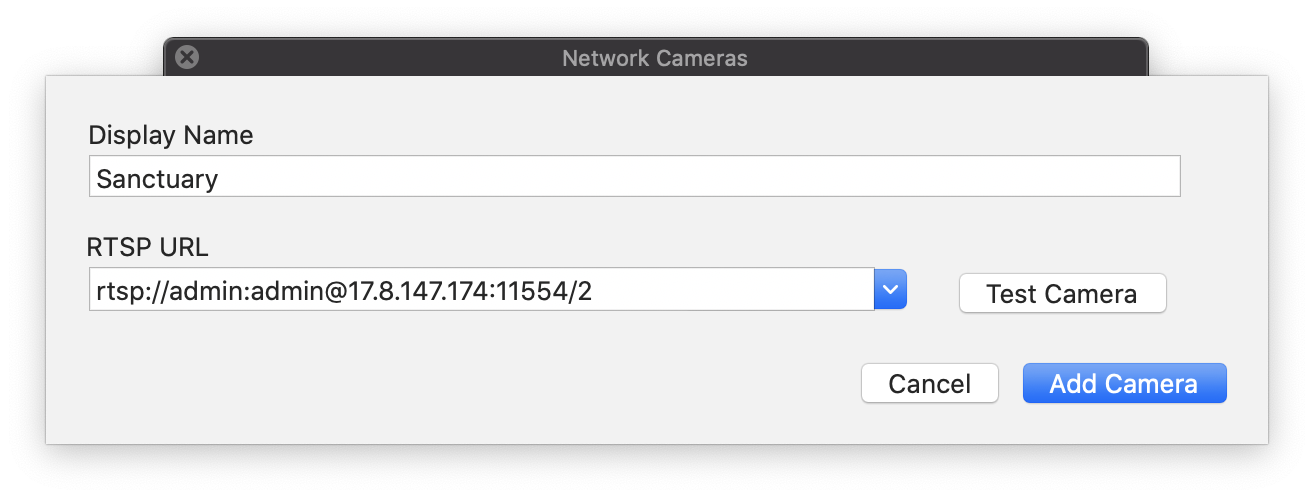
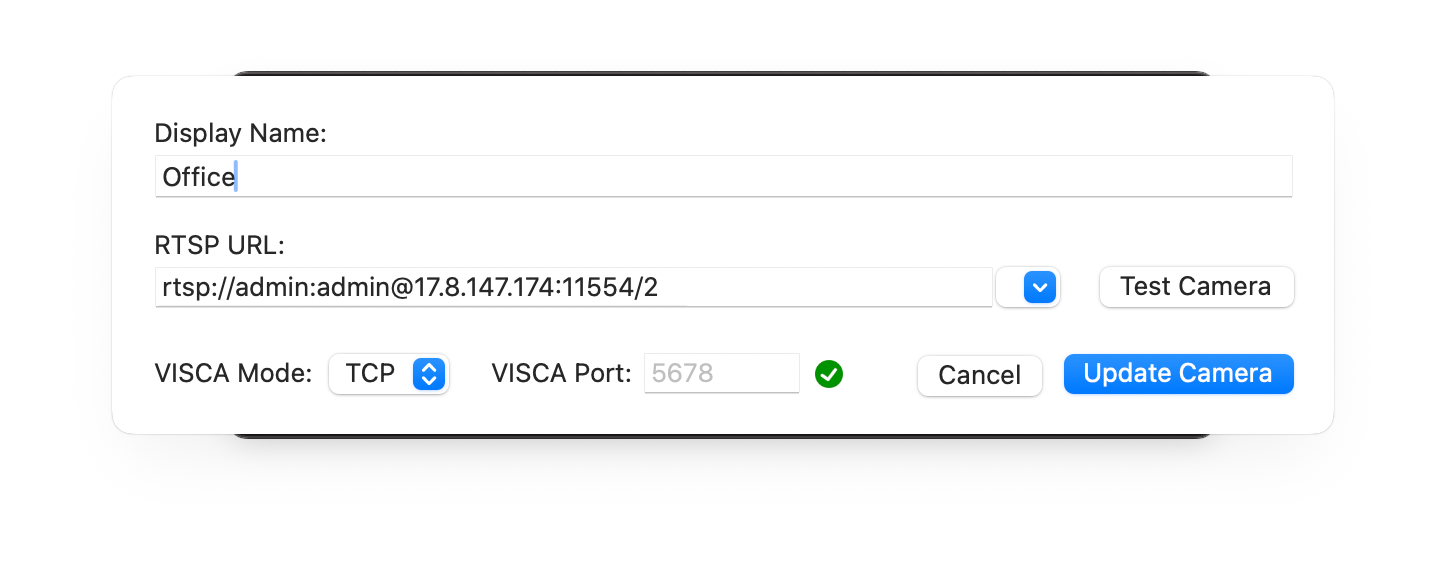
Some 4.4 features

diff --git a/docs/_ecamm-live-manual/014-adjusting-sound-levels.md b/docs/_ecamm-live-manual/014-adjusting-sound-levels.md
@@ -11,7 +11,7 @@ The Sound Levels Window shows what audio source is in use. Clicking on the name 
 
 A meter in the Sound Levels Window will show the currently selected source's volume level. You can adjust this with the slider. When sharing your screen, you'll also see a sound level adjustment for System Audio.
 
-Each audio channel (microphone, movie audio, Interview mode, Sound Effects and System Audio) can be muted using the Sound Level window's <samp>MUTE</samp> buttons. These mute setting will be saved in the Scene. For example, you may have an Interview guest online, but only unmute the guest's audio in particular Scenes.
+Each audio channel (microphone, movie audio, Interview mode, Sound Effects, Zoom audio, and System Audio) can be muted using the Sound Level window's <samp>MUTE</samp> buttons. These mute setting will be saved in the Scene. For example, you may have an Interview guest online, but only unmute the guest's audio in particular Scenes.
 
 ### Adding a Second Audio Input
 
@@ -21,6 +21,10 @@ To remove the secondary audio input, click the {% inlineicon remove 15 inverted 
 
 When [an iOS device is connected](../003-camera-mode/#broadcasting-your-ios-devices-screen), Ecamm Live will automatically add it as a second audio device. You will also see a checkbox and popup menu to configure audio play-through for the iOS device. This will allow you to hear sound from the iOS device on your Mac's speakers or a headset.
 
+### Capturing System Audio
+
+If <samp>Broadcast System Audio</samp> is turned on in the [Audio preferences](../018-other-options/#audio-preferences), you will see system sound levels shown in this window, including a popup menu to select which Mac application's audio should be captured. (Note that this menu is only available when using macOS 14.4 or newer.)
+
 ### Mapping Audio Channels for Stereo
 
 Ecamm Live will automatically broadcast System Audio and movie playback audio in stereo. Audio from a connected microphone or mixer works a bit differently.
@@ -29,9 +33,16 @@ By default, Ecamm Live will mix all of an input device's channels together. Howe
 
 Note that when [Echo Cancellation](#echo-cancellation) is enabled, Ecamm Live will only use audio on channel 1 of multi-channel audio input devices, so stereo audio will not be available.
 
+### Mapping Audio Channels from Multi-Channel Audio Devices
+
+If Ecamm Live detects a multi-channel audio device, (an audio device with more than two channels), a channel mapping icon will show up. Click this icon to view the channel mapping popover. Each channel can be mapped to <samp>Off</samp>, <samp>Mono</samp>, <samp>Left</samp>, or <samp>Right</samp>. 
+
+Note that this feature will not be available if Echo Cancellation is activated.
+
 #### Stereo for Interview Guests
 
 Ecamm Live provides the option for [Interview](../008-interview-mode) guests to connect in stereo, however the guest must use Chrome on a desktop computer, and [audio processing must be disabled](../008-interview-mode#turn-off-audio-processing-for-guests).
+
 
 ### Echo Cancellation
 
@@ -40,6 +51,20 @@ If you are using your Mac's speakers during your broadcast, that may cause an ec
 If you are using headphones, echo cancellation is disabled automatically. Note that Ecamm Live can't distinguish between headphones and external computer speakers. If you are using external computers speakers, and you wish to use Echo Cancellation, you will need to turn on the <samp>Enable Echo Cancellation for External Speakers</samp> checkbox in the Audio section of the Preferences.
 
 When Echo Cancellation is enabled, Ecamm Live will only use audio on channel 1 of multi-channel audio input devices. If your audio interface has more than one channel, be sure to turn off Echo Cancellation.
+
+### Audio Filters
+
+Ecamm Live'a Audio Filters window allows you to applue any installed AU Component audio plugins to the primary mic, secondary mic, or [Interview mode](../008-interview-mode/) guest audio. To open the Audio Filters window, click the {% inlineicon hollowpuzzlepiece 35 inverted %}puzzle piece{% endinlineicon %} icon in the bottom-right corner of the Sound Levels window, or pick <samp>Audio Filters</samp> from the <samp>Window</samp> menu.
+
+![Audio Filters Window](/assets/img/audiofilters.png "Audio Filters Window"){: width="340px"}
+
+Click the + button to add a new Audio Filter group. In the details popover, select the desired audio channels, and click <samp>Add Plugin</samp> to add one or more audio plugins. 
+
+![Audio Filters Window Add Plugin](/assets/img/addplugin.png "Audio Filters Window Add Plugin"){: width="540px"}
+
+#### Hearing Your Audio Filters
+
+To hear the effects of your Audio Filters, connect headphones, and use Ecamm Live's Audio Monitor feature. (Pick the headphones in the <samp>Audio Monitor</samp> section of the <samp>Outputs</samp> menu.)
 
 ### Audio Warnings
 

diff --git a/docs/_ecamm-live-manual/008-adding-zoom.md b/docs/_ecamm-live-manual/008-adding-zoom.md
@@ -117,13 +117,23 @@ Participants can automatically bypass Zoom's waiting room feature. In the ••
 
 By default, participants are not automatically added as Ecamm Live camera sources. This can be changed if you would like all guests to become camera sources immediately upon joining. In the ••• menu in the top right-hand corner of the Zoom window, or in Ecamm Live's Preferences window, choose from the three <samp>Auto-Add Participants to Cameras</samp> options. To only auto-add participants who have previously joined your meetings, pick <samp>Known Participants</samp>.
 
+#### Show Zoom Guest Names in Camera Mode
+
+Ecamm Live will automatically add Zoom guest name text overlays to Zoom guests when in [Camera Mode](../003-camera-mode) Scenes.
+
 #### Include a Zoom Active Speaker Camera
 
 Activating this feature will add an active speaker camera source to the <samp>A/B</samp> section of the [camera switcher](../009-camera-switcher).
 
+The Zoom Active Speaker camera source will begin working once a [Zoom Capture Mode](#zoom-capture-modes) has been activated.
+
 #### Show Me As An Active Speaker
 
 Include your own camera when you're speaking when using the Zoom Active Speaker feature. 
+
+#### Exclude Visible Inputs From Active Speakers Camera
+
+This will avoid duplicated video by automatically excluding any guests or camera that are already in the current Scene. For example, if a Zoom guest's camera source is already visible in your Scene, and the Scene also contain a Zoom Active Speaker camera source, Zoom Active Speaker will not show that Zoom guest as the active speaker when they speak.
 
 #### Zoom Audio Processing
 
@@ -131,9 +141,14 @@ By default, Zoom's audio processing such as echo cancellation and background noi
 
 Keep in mind that disabling Zoom's audio processing could result in echo, so ensure that Ecamm Live's [Echo Cancellation](../014-adjusting-sound-levels/#echo-cancellation) feature or headphones are used when this setting is set to <samp>Disabled</samp>.
 
+#### Automatically Spotlight Myself
+
+Zoom's [Spotlight feature](https://support.zoom.com/hc/en/article?id=zm_kb&sysparm_article=KB0066300) will automatically activate once [the requirements for spotlighting](https://support.zoom.com/hc/en/article?id=zm_kb&sysparm_article=KB0066300) have been met.
+
 #### Add Zoom Chat and Q&A Questions to the Ecamm Comments & Reactions Window
 
-Indicate whether you would like Zoom chat messages and [Q&A questions](https://support.zoom.com/hc/en/article?id=zm_kb&sysparm_article=KB0065237) to [show up in the Comments & Reactions Window.](#adding-zoom-chat-messages-to-your-scene) 
+Indicate whether you would like Zoom chat messages and [Q&A questions and answers](https://support.zoom.com/hc/en/article?id=zm_kb&sysparm_article=KB0065237) to [show up in the Comments & Reactions Window.](#adding-zoom-chat-messages-to-your-scene) 
+
 
 #### Manual Audio Mode
 
@@ -204,6 +219,15 @@ Zoom chat messages and [Q&A questions](https://support.zoom.com/hc/en/article?id
 ![Figure\: The Comments & Reactions Window](/assets/img/zoomcomments.png "The Comments & Reactions Window"){:width="375"}
 
 The Comments & Reactions window can also be used to send Zoom chat messages.
+
+### Zoom Q&A Features
+
+When Zoom Q&A questions arrive, a new <samp>Open Questions</samp> tab will appear in the Comments & Reactions window. Questions will automatically be removed from this section when they've been deleted, dismissed, or marked as answered by you or a co-host.
+
+Options for deleting, dismissing, or answering questions can be accessed by right-clicking or <kbd>option</kbd>-clicking on the question in the Comments & Reactions window. 
+
+![Figure\: The Comments & Reactions Window](/assets/img/questionactions.png "The Comments & Reactions Window"){:width="375"}
+
 
 ## Maximizing Participant Video Resolution
 

diff --git a/docs/_ecamm-live-manual/018-other-options.md b/docs/_ecamm-live-manual/018-other-options.md
@@ -126,7 +126,7 @@ Creates a local recording of all broadcasts. Find more about recording in the [R
 
 #### Record Isolated Video Tracks (Pro Only)
 
-In addition to normal recording, Ecamm Live can save a recording of up to two camera sources and all [Interview](../008-interview-mode/) guest video and audio. This is sometimes referred to as ISO video recording. Turn on isolated video recording using the checkboxes for <samp>Camera A</samp>, <samp>Camera B</samp> and <samp>Interview Guests</samp>. You can also select what audio will be added to each recording.
+In addition to normal recording, Ecamm Live can save a recording of up to two camera sources and all [Interview](../008-interview-mode/) guest video and audio. This is sometimes referred to as ISO video recording. Turn on isolated video recording using the checkboxes for <samp>Camera A</samp>, <samp>Camera B</samp>, <samp>Camera C</samp>, <samp>Interview Guests</samp>, <samp>Zoom Guests</samp>, and the Zoom Active Speaker camera. You can also select what audio will be added to each recording.
 
 #### Apply Camera Effects To Recorded Video Sources
 
@@ -172,7 +172,9 @@ The default source mode (Blank, Camera, or Screen Share) for newly created Scene
 
 #### Default Transition
 
-Choose a visual effect when changing Source Modes or Scenes. Select <samp>No Transition</samp>, <samp>Cross Dissolve</samp>,  <samp>Slow Cross Dissolve</samp>,  <samp>Slower Cross Dissolve</samp>, <samp>White Flash</samp>, <samp>Swipe</samp>, <samp>Cross Zoom</samp>, <samp>Light Rays</samp>, <samp>Ripple</samp> and <samp>Copy Machine</samp> transition effects. A Pro-level plan is required for <samp>Cross Zoom</samp>, <samp>Light Rays</samp>, <samp>Ripple</samp> and <samp>Copy Machine</samp> effects.
+Choose a visual effect when changing Source Modes or Scenes. Select <samp>No Transition</samp>, <samp>Live Motion</samp>,  <samp>Cross Dissolve</samp>,  <samp>Slow Cross Dissolve</samp>,  <samp>Slower Cross Dissolve</samp>, <samp>White Flash</samp>, <samp>Swipe</samp>, <samp>Cross Zoom</samp>, <samp>Light Rays</samp>, <samp>Ripple</samp> and <samp>Copy Machine</samp> transition effects. A Pro-level plan is required for <samp>Cross Zoom</samp>, <samp>Light Rays</samp>, <samp>Ripple</samp> and <samp>Copy Machine</samp> effects.
+
+Live Motion will smoothly move overlays that are in both scenes. It supports camera, screen share, widget, and image overlays. Components of the scene that aren't moved by Live Motion will cross dissolve.
 
 This transition effect can also be set on a per-Scene basis by selecting a transition in the <samp>Scene Optons</samp> section of the <samp>Options</samp> menu.
 

diff --git a/docs/_ecamm-live-manual/003-camera-mode.md b/docs/_ecamm-live-manual/003-camera-mode.md
@@ -41,6 +41,8 @@ rtsp://user:password@address:port/path
 
 The <samp>Test Camera</samp> button can be used to test the connection to the camera. 
 
+Many RTSP camera support VISCA for pan-tilt-zoom capabilities. If your camera supports VISCA, configure the VISCA setting here to use Ecamm Live's PTZ features.
+
 Note that network camera audio is not supported.
 
 #### Broadcasting Your iOS Device's Screen
@@ -54,6 +56,25 @@ Macs running macOS Ventura or newer will show your iPhone's [Continuity Camera](
 #### 360° Cameras
 
 Ecamm Live supports streaming from 360° cameras to services like Facebook Live which support them. We have used the Ricoh Theta S camera successfully. If you need help setting that up, read our [Streaming with a 360° Camera](https://support.ecamm.com/en/articles/3217765-streaming-with-a-360-camera/) document. Other cameras that can produce a equirectangular image may also work.
+
+## Pan-Tilt-Zoom (PTZ) Cameras
+
+Ecamm Live can control PTZ camera. Supported cameras include:
+
+* VISCA (Configure in the [Network Cameras](#rtsp-cameras-also-called-network-cameras-or-ip-cameras) window.)
+* UVC (USB webcams such as Insta6360 Link and Logitech PTZ Pro 2.)
+* OBSBot USB
+* NDI
+
+Ecamm Live will automatically detect PTZ capabilities and provide a control window for each camera. To manually open the control window, pick <samp>Show PTZ Controls</samp> from the camera's ••• menu in the [Camera Switcher window](../009-camera-switcher/) or click the {% inlineicon ptzbutton 30 %}PTZ controls{% endinlineicon %} icon.
+
+![PTZ Controls](/assets/img/ptz.png "PTZ Controls"){: width="554px"}
+
+The PTZ control window may look different depending on each camera's supported features. For example, presets or speed options may be missing if a particular camera doesn't support these features.
+
+#### Assigning PTZ Presets To Placeholder Cameras
+
+You can automatically recall a specific PTZ preset position in a Scene by assigning the preset position to a [Placeholder Camera](../009-camera-switcher/#placeholder-cameras).
 
 ## The Video Source Switcher
 

diff --git a/docs/_ecamm-live-manual/015-sound-effects.md b/docs/_ecamm-live-manual/015-sound-effects.md
@@ -51,10 +51,18 @@ There are 3 ways to play a sound:
 
 There are 4 ways to stop the current sound:
 
-* Click the sound's pause button in the Sound Effects window. (The currently playing sound's play button will become a pause button.)
+* Click the sound's stop button in the Sound Effects window. (The currently playing sound's play button will become a stop button.)
 * Click the {% inlineicon stop 14 inverted %}Stop Sound Button{% endinlineicon %} button at the bottom of the Sound Effects window.
 * Choose <samp>Stop Most Recent Sound Effect</samp> or <samp>Stop All Sound Effects</samp> from the <samp>Edit</samp> menu.
 * Press <kbd>⌘</kbd><kbd>.</kbd>.
+
+## Pausing Sounds
+
+Pausing a sound will cause it to play from the paused position instead of playing from the beginning. There are 2 ways to pause the current sound:
+
+* Hold down the <kbd>option</kbd> key and click the sound's pause button in the Sound Effects window. (The currently playing sound's play button will become a pause button when the <kbd>option</kbd> key is down.)
+* Choose <samp>Pause Most Recent Sound Effect</samp> from the <samp>Edit</samp> menu.
+* Press <kbd>⌘</kbd> <kbd>option</kbd><kbd>.</kbd>.
 
 ## Renaming Sounds
 

diff --git a/docs/_ecamm-live-manual/016-virtual-webcam-and-outputs.md b/docs/_ecamm-live-manual/016-virtual-webcam-and-outputs.md
@@ -10,13 +10,7 @@ Ecamm Live's Virtual Webcam feature allows you to use all of the features of Eca
 
 Activate Virtual Webcam by choosing <samp>On</samp> in <samp>Outputs</samp> ➝ <samp>Virtual Webcam</samp>. It can also be activated using <samp>Virtual Cam</samp> toggle in the Mode menu at the top of the Main Window.
 
-If this is your first time using the feature, you'll be prompted to install the Virtual Webcam System Extension. The installation process will prompt you for your Mac's administrator password. Once installed, macOS will automatically block the newly installed extension, and then prompt you to unblock it.
-
-![](/assets/img/blocked.png){: width="372px"}
-
-Click <samp>Allow</samp> in the <samp>Privacy & Security</samp> section of the System Settings application to complete the installation.
-
-![](/assets/img/privacy.png){: width="590px"}
+If this is your first time using the feature, you'll be prompted to install [and enable](https://support.ecamm.com/en/articles/3216951-using-the-virtual-camera-pro-only#h_d01a337da5) the Virtual Webcam Extension.
 
 Once installed, you may need to quit any video apps that are already open before the Virtual Webcam is recognized.
 

diff --git a/docs/_ecamm-live-manual/013-recording-your-broadcasts.md b/docs/_ecamm-live-manual/013-recording-your-broadcasts.md
@@ -10,7 +10,7 @@ By default, Ecamm Live keeps a local, full-quality recording of every broadcast 
 
 ## Isolated Video Recording (Pro Only)
 
-In addition to normal recording, Ecamm Live can save a recording of up to two camera sources. It can also record the audio and video from [Interview](../008-interview-mode/) guests.  Isolated video recording can be turned on in [Recording section](../018-other-options/#recording-preferences) of the app preferences.
+In addition to normal recording, Ecamm Live can save a recording of up to three camera sources. It can also record the audio and video from [Interview](../008-interview-mode/) guests and [Zoom guests](../008-adding-zoom/).  Isolated video recording can be turned on in [Recording section](../018-other-options/#recording-preferences) of the app preferences.
 
 An Apple Silicon (M1 or M2) Mac is required for isolated video recording.
 
